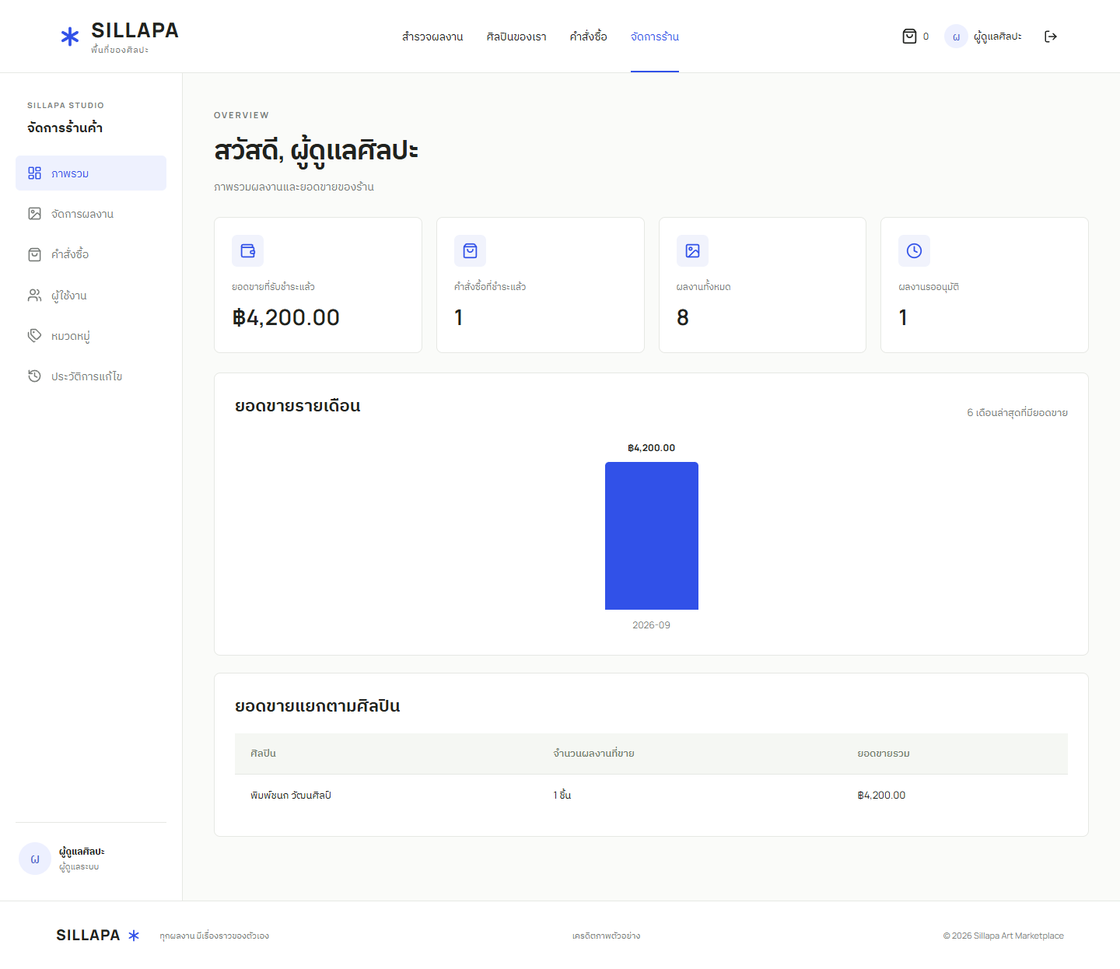
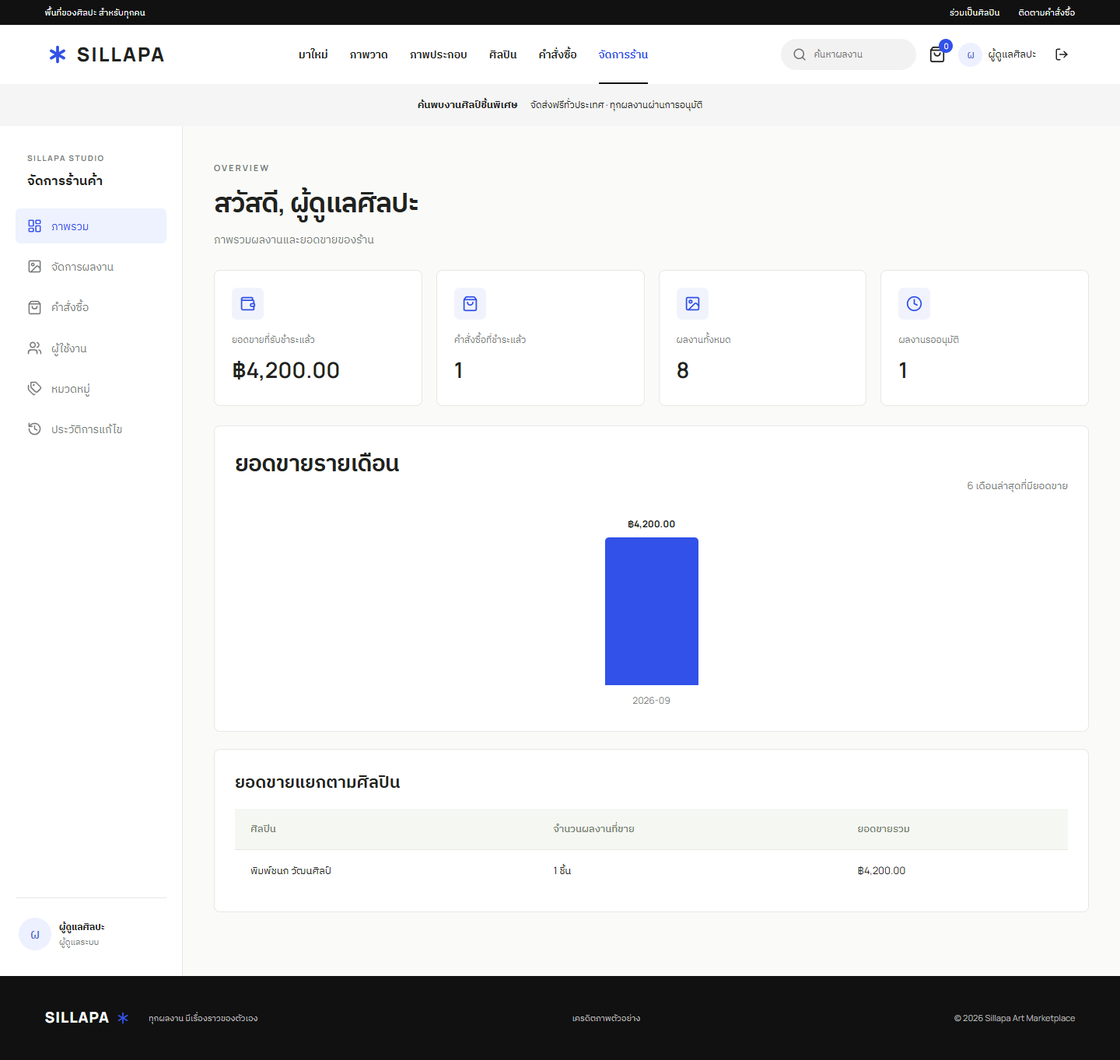
Redesign storefront with Nike-inspired layout

diff --git a/components/marketplace.tsx b/components/marketplace.tsx
@@ -2,7 +2,7 @@
 import { useEffect, useState } from 'react';
 import Link from 'next/link';
 import { usePathname, useRouter } from 'next/navigation';
-import { Asterisk, ShoppingBag, ArrowUpRight, ArrowRight, Search, SlidersHorizontal, LayoutGrid, List, UserRound, LogOut, Menu, X, Palette, Check, ShieldCheck } from 'lucide-react';
+import { Asterisk, ShoppingBag, ArrowUpRight, ArrowRight, Search, SlidersHorizontal, LayoutGrid, List, LogOut, Menu, X, Palette, Check, ShieldCheck } from 'lucide-react';
 import { AppContext, useApp, api, send, useData, money, Badge, Loading, ErrorBox, Empty, Pagination, type Item } from './shared';
 import { AuthPage, ProfilePage } from './people';
 import { CartPage, OrdersPage, OrderDetail } from './orders';
@@ -19,7 +19,7 @@ export default function Marketplace(){
  const user=session?.user;const addToCart=(id:string)=>{setCart(c=>c.includes(id)?c:[...c,id]);setToast('เพิ่มผลงานในตะกร้าแล้ว');};
  const value={user,session,cart,setCart,addToCart,notify:setToast,refreshSession};
  const workspace=path.startsWith('/studio');
- return <AppContext.Provider value={value}><a className="skip" href="#main">ข้ามไปเนื้อหา</a><header className="header"><Link href="/" className="brand" aria-label="SILLAPA หน้าหลัก"><Asterisk size={36} strokeWidth={2.5}/><span>SILLAPA<span className="brand-thai">พื้นที่ของศิลปะ</span></span></Link><nav className={menu?'main-nav open':'main-nav'} aria-label="เมนูหลัก"><Link className={path==='/'?'active':''} href="/">สำรวจผลงาน</Link><Link className={path.startsWith('/artists')?'active':''} href="/artists">ศิลปินของเรา</Link>{user&&<Link className={path.startsWith('/orders')?'active':''} href="/orders">คำสั่งซื้อ</Link>}{['admin','staff'].includes(user?.role)&&<Link className={workspace?'active':''} href="/studio">จัดการร้าน</Link>}</nav><div className="header-actions"><Link className="cart-button" href="/cart" aria-label={`ตะกร้าสินค้า ${cart.length} ชิ้น`}><ShoppingBag size={21}/><span className="cart-count">{cart.length}</span></Link>{user?<><Link className="account" href="/profile"><span className="avatar small">{user.name.slice(0,1)}</span><span>{user.name.split(' ')[0]}</span></Link><button className="icon-button logout" aria-label="ออกจากระบบ" onClick={async()=>{await send('auth/logout',{});await refreshSession();router.push('/');}}><LogOut size={18}/></button></>:<Link href="/login" className="button dark compact">เข้าสู่ระบบ <ArrowUpRight size={15}/></Link>}<button className="icon-button mobile-menu" aria-label="เปิดเมนู" onClick={()=>setMenu(!menu)}>{menu?<X/>:<Menu/>}</button></div></header>
+ return <AppContext.Provider value={value}><a className="skip" href="#main">ข้ามไปเนื้อหา</a><div className="utility-bar"><span>พื้นที่ของศิลปะ สำหรับทุกคน</span><div><Link href="/artists">ร่วมเป็นศิลปิน</Link><Link href="/orders">ติดตามคำสั่งซื้อ</Link></div></div><header className="header"><Link href="/" className="brand" aria-label="SILLAPA หน้าหลัก"><Asterisk size={32} strokeWidth={2.8}/><span>SILLAPA</span></Link><nav className={menu?'main-nav open':'main-nav'} aria-label="เมนูหลัก"><Link className={path==='/'?'active':''} href="/">มาใหม่</Link><Link href="/?category=painting">ภาพวาด</Link><Link href="/?category=illustration">ภาพประกอบ</Link><Link className={path.startsWith('/artists')?'active':''} href="/artists">ศิลปิน</Link>{user&&<Link className={path.startsWith('/orders')?'active':''} href="/orders">คำสั่งซื้อ</Link>}{['admin','staff'].includes(user?.role)&&<Link className={workspace?'active':''} href="/studio">จัดการร้าน</Link>}</nav><div className="header-actions"><Link className="header-search" href="/#discover"><Search size={18}/><span>ค้นหาผลงาน</span></Link><Link className="cart-button" href="/cart" aria-label={`ตะกร้าสินค้า ${cart.length} ชิ้น`}><ShoppingBag size={22}/><span className="cart-count">{cart.length}</span></Link>{user?<><Link className="account" href="/profile"><span className="avatar small">{user.name.slice(0,1)}</span><span>{user.name.split(' ')[0]}</span></Link><button className="icon-button logout" aria-label="ออกจากระบบ" onClick={async()=>{await send('auth/logout',{});await refreshSession();router.push('/');}}><LogOut size={18}/></button></>:<Link href="/login" className="account-link">เข้าสู่ระบบ</Link>}<button className="icon-button mobile-menu" aria-label="เปิดเมนู" onClick={()=>setMenu(!menu)}>{menu?<X/>:<Menu/>}</button></div></header><div className="promo-strip"><strong>ค้นพบงานศิลป์ชิ้นพิเศษ</strong><span>จัดส่งฟรีทั่วประเทศ · ทุกผลงานผ่านการอนุมัติ</span></div>
  <main id="main" className={workspace?'workspace-main':'site-main'}>{path==='/'?<Gallery/>:path.startsWith('/artworks/')?<ArtworkDetail id={path.split('/')[2]}/>:path==='/artists'?<Artists/>:path.startsWith('/artists/')?<ArtistDetail id={path.split('/')[2]}/>:path==='/login'||path==='/register'?<AuthPage register={path==='/register'}/>:path==='/cart'?<CartPage/>:path==='/orders'?<OrdersPage/>:path.startsWith('/orders/')?<OrderDetail id={path.split('/')[2]}/>:path==='/addresses'?<AddressPage/>:path==='/profile'?<ProfilePage/>:workspace?<Workspace/>:path==='/credits'?<Credits/>:<Empty title="ไม่พบหน้านี้"><Link className="button" href="/">กลับสู่แกลเลอรี</Link></Empty>}</main>
  <footer className="footer"><div><Link className="footer-brand" href="/">SILLAPA< Asterisk size={22}/></Link><span>ทุกผลงาน มีเรื่องราวของตัวเอง</span></div><Link href="/credits">เครดิตภาพตัวอย่าง</Link><span>© {new Date().getFullYear()} Sillapa Art Marketplace</span></footer>{toast&&<div className="toast" role="status"><Check size={19}/>{toast}</div>}</AppContext.Provider>;
 }
@@ -29,8 +29,8 @@ function Gallery({artist}:{artist?:string}){
  const [q,setQ]=useState('');const [search,setSearch]=useState('');const [category,setCategory]=useState('');const [artistFilter,setArtistFilter]=useState('');const [max,setMax]=useState('');const [status,setStatus]=useState('');const [sort,setSort]=useState('newest');const [page,setPage]=useState(1);const [list,setList]=useState(false);const [filters,setFilters]=useState(false);
  useEffect(()=>{const t=setTimeout(()=>{setSearch(q);setPage(1);},300);return()=>clearTimeout(t);},[q]);
  const categories=useData('categories');const artists=useData('artists');const params=new URLSearchParams({q:search,category,artist:artist||artistFilter,max,status,sort,page:String(page)});const {data,error}=useData(`artworks?${params}`);const reset=()=>{setQ('');setCategory('');setArtistFilter('');setMax('');setStatus('');setSort('newest');setPage(1);};
- return <>{!artist&&<section className="gallery-intro"><div><div className="eyebrow"><span className="tiny-line"/> A SPACE FOR ART & YOU</div><h1>Art, with a <em>story.</em></h1><p>ค้นพบผลงานที่ใช่ สนับสนุนศิลปินรุ่นใหม่<br className="mobile-break"/> และเติมเรื่องราวให้พื้นที่ของคุณ</p></div><div className="intro-note"><div className="outline-star"><Asterisk size={52} strokeWidth={1}/></div><p>จากความตั้งใจของศิลปิน<br/>สู่มุมโปรดของคุณ</p><Link href="/artists">พบกับศิลปิน <ArrowUpRight size={17}/></Link></div></section>}
- <section className="gallery-section"><div className="section-heading"><h2>{artist?'ผลงานของศิลปิน':'สำรวจผลงาน'}<span className="count">{data?.total??'—'}</span></h2><div className="view-buttons"><button className={!list?'selected':''} aria-label="มุมมองตาราง" onClick={()=>setList(false)}><LayoutGrid size={19}/></button><button className={list?'selected':''} aria-label="มุมมองรายการ" onClick={()=>setList(true)}><List size={20}/></button></div></div><div className="gallery-tools"><div className="category-tabs"><button onClick={()=>{setCategory('');setPage(1);}} className={!category?'selected':''}>ทั้งหมด</button>{categories.data?.items.map((c:Item)=><button key={c.id} onClick={()=>{setCategory(c.id);setPage(1);}} className={category===c.id?'selected':''}>{c.name}</button>)}</div><label className="sort-label">เรียงตาม <select aria-label="เรียงผลงาน" value={sort} onChange={e=>{setSort(e.target.value);setPage(1);}}><option value="newest">ใหม่ล่าสุด</option><option value="price_asc">ราคา: ต่ำไปสูง</option><option value="price_desc">ราคา: สูงไปต่ำ</option><option value="oldest">เก่าที่สุด</option></select></label></div>
+ return <>{!artist&&<><section className="gallery-intro"><img src="/art/art-1.jpg" alt="ภาพวาดดอกบัว ผลงานเด่นประจำสัปดาห์"/><div className="hero-copy"><span className="hero-kicker">FEATURED THIS WEEK</span><h1>ศิลปะที่<br/>พูดแทนคุณ</h1><p>ค้นพบงานต้นฉบับจากศิลปินรุ่นใหม่<br/>ชิ้นเดียวในโลก เพื่อพื้นที่ที่เป็นคุณ</p><a className="hero-cta" href="#discover">เลือกชมผลงาน <ArrowRight size={18}/></a></div></section><div className="shop-categories" aria-label="เลือกดูตามหมวด"><a href="#discover">มาใหม่</a><a href="#discover">ภาพวาด</a><a href="#discover">ภาพประกอบ</a><a href="/artists">ศิลปินน่าจับตา</a></div></>}
+ <section className="gallery-section" id="discover"><div className="section-heading"><div><span className="section-kicker">CURATED FOR YOU</span><h2>{artist?'ผลงานของศิลปิน':'ผลงานเด่น'}<span className="count">{data?.total??'—'}</span></h2></div><div className="view-buttons"><button className={!list?'selected':''} aria-label="มุมมองตาราง" onClick={()=>setList(false)}><LayoutGrid size={19}/></button><button className={list?'selected':''} aria-label="มุมมองรายการ" onClick={()=>setList(true)}><List size={20}/></button></div></div><div className="gallery-tools"><div className="category-tabs"><button onClick={()=>{setCategory('');setPage(1);}} className={!category?'selected':''}>ทั้งหมด</button>{categories.data?.items.map((c:Item)=><button key={c.id} onClick={()=>{setCategory(c.id);setPage(1);}} className={category===c.id?'selected':''}>{c.name}</button>)}</div><div className="tool-actions"><button className="filter-inline" onClick={()=>setFilters(!filters)}><SlidersHorizontal size={16}/> ตัวกรอง</button><label className="sort-label"><select aria-label="เรียงผลงาน" value={sort} onChange={e=>{setSort(e.target.value);setPage(1);}}><option value="newest">ใหม่ล่าสุด</option><option value="price_asc">ราคา: ต่ำไปสูง</option><option value="price_desc">ราคา: สูงไปต่ำ</option><option value="oldest">เก่าที่สุด</option></select></label></div></div>
  <button className="button filter-toggle" onClick={()=>setFilters(!filters)}><SlidersHorizontal size={17}/>ตัวกรอง</button><div className="gallery-layout"><aside className={`filters ${filters?'show':''}`}><div className="filter-heading"><strong><SlidersHorizontal size={17}/>ตัวกรอง</strong><button className="text-button" onClick={reset}>ล้างทั้งหมด</button></div><label className="field-label">ค้นหาผลงาน<div className="search-input"><Search size={17}/><input placeholder="ชื่อผลงานหรือศิลปิน" value={q} onChange={e=>setQ(e.target.value)}/></div></label>{!artist&&<label className="field-label">ศิลปิน<select value={artistFilter} onChange={e=>{setArtistFilter(e.target.value);setPage(1);}}><option value="">ศิลปินทั้งหมด</option>{artists.data?.items.map((a:Item)=><option key={a.id} value={a.id}>{a.name}</option>)}</select></label>}<label className="field-label">ช่วงราคา<select value={max} onChange={e=>{setMax(e.target.value);setPage(1);}}><option value="">ทุกช่วงราคา</option><option value="3000">ไม่เกิน ฿3,000</option><option value="5000">ไม่เกิน ฿5,000</option><option value="10000">ไม่เกิน ฿10,000</option></select></label><div className="filter-divider"/><label className="check-label"><input type="checkbox" checked={status==='approved'} onChange={e=>{setStatus(e.target.checked?'approved':'');setPage(1);}}/>เฉพาะที่พร้อมจำหน่าย</label><div className="artist-invite"><Palette size={25}/><h3>ให้ผลงานของคุณ<br/>ได้พบเจ้าของคนใหม่</h3><p>ร่วมเป็นส่วนหนึ่งของ<br/>ชุมชนศิลปิน SILLAPA</p><Link href="/register">เริ่มต้นเป็นศิลปิน <ArrowUpRight size={16}/></Link></div></aside><div className="gallery-results"><ErrorBox text={error}/>{!data&&!error?<Loading/>:data?.items.length===0?<Empty title="ไม่พบผลงานที่ค้นหา"><p>ลองเปลี่ยนคำค้นหาหรือล้างตัวกรอง</p><button className="button" onClick={reset}>ล้างตัวกรอง</button></Empty>:<div className={`art-grid ${list?'list-grid':''}`}>{data?.items.map((art:Item)=><ArtCard key={art.id} art={art} list={list}/>)}</div>}<Pagination data={data} page={page} onChange={setPage}/><p className="sample-note">ภาพตัวอย่างเป็นศิลปะสาธารณสมบัติ ชื่อศิลปินนักศึกษาและราคาเป็นข้อมูลสาธิต <Link href="/credits">ดูเครดิตภาพ</Link></p></div></div></section></>;
 }
 function ArtworkDetail({id}:{id:string}){const {data,error}=useData(`artworks/${id}`);const {addToCart,cart,user}=useApp();if(error)return <ErrorBox text={error}/>;if(!data)return <Loading/>;const a=data.artwork;return <><div className="breadcrumb"><Link href="/">สำรวจผลงาน</Link><span>/</span><span>{a.title}</span></div><section className="detail-layout"><div className="detail-image"><img src={a.image} alt={a.title}/></div><div className="detail-info"><div className="eyebrow">{a.category_name}</div><h1>{a.title}</h1><Link className="artist-link" href={`/artists/${a.artist_id}`}><span className="avatar">{a.artist_name.slice(0,1)}</span><div><strong>{a.artist_name}</strong><small>{a.university||'ศิลปิน SILLAPA'}</small></div><ArrowUpRight size={19}/></Link><p className="detail-price">{money(a.price)}</p><Badge status={a.status}/><p className="description">{a.description}</p><dl className="specs"><div><dt>เทคนิค</dt><dd>{a.technique}</dd></div><div><dt>ขนาด</dt><dd>{Number(a.width)} × {Number(a.height)} ซม.</dd></div><div><dt>รูปแบบ</dt><dd>ผลงานต้นฉบับ · 1 ชิ้น</dd></div></dl><button className="button primary full" disabled={a.status!=='approved'||a.artist_id===user?.id||cart.includes(id)} onClick={()=>addToCart(id)}><ShoppingBag size={19}/>{cart.includes(id)?'อยู่ในตะกร้าแล้ว':a.status==='approved'?'เพิ่มลงตะกร้า':a.status==='reserved'?'ผลงานนี้ถูกจองแล้ว':'ยังไม่พร้อมจำหน่าย'}</button>{cart.includes(id)&&<Link className="button full" href="/cart">ไปที่ตะกร้า <ArrowRight size={17}/></Link>}<p className="trust-note"><ShieldCheck size={17}/>ผ่านการอนุมัติก่อนเผยแพร่ · ตรวจสอบการชำระเงินโดยแอดมิน</p>{a.credit&&<p className="sample-note">{a.credit} <Link href="/credits">เครดิตภาพ</Link></p>}</div></section></>;}

diff --git a/app/globals.css b/app/globals.css
@@ -5,3 +5,9 @@
 @media(max-width:800px){.header{height:78px;gap:15px}.brand>span{font-size:22px}.brand>svg{width:29px}.main-nav{gap:16px;font-size:12px}.header-actions{gap:10px}.header-actions>.button{font-size:12px;padding:9px 12px}.logout{display:none}.gallery-intro{padding:35px 0}.gallery-intro h1{font-size:57px}.intro-note{display:none}.gallery-layout{grid-template-columns:170px 1fr;gap:20px}.art-bottom{align-items:flex-start;flex-direction:column;gap:3px}.art-info h3{font-size:16px}.art-meta{font-size:10px}.category-tabs button{padding:7px 14px;font-size:12px}.gallery-tools{gap:10px}.sort-label{font-size:12px;gap:3px}.sort-label select{max-width:125px;font-size:12px}.footer{flex-wrap:wrap}.footer>div{width:100%;justify-content:space-between}.detail-layout,.checkout-layout{grid-template-columns:1fr;gap:25px}.detail-image{min-height:0;max-height:650px}.detail-image img{max-height:550px}.detail-info{padding:10px 0}.detail-info h1{font-size:32px}.auth-layout{grid-template-columns:1fr;max-width:480px;margin-top:30px}.auth-art{display:none}.workspace{grid-template-columns:170px 1fr}.studio-sidebar{padding:25px 10px}.studio-sidebar nav a{padding:10px;font-size:12px;gap:8px}.studio-label{padding:0 10px 20px}.studio-content{padding:25px 18px}.studio-content h1{font-size:27px}.stat-grid{gap:10px}.stat-card{padding:16px}.stat-card>strong{font-size:25px}.section-heading.page-heading{align-items:flex-start;flex-direction:column}.order-card{flex-direction:column;gap:15px}.order-card-end{justify-content:space-between}.table-wrap th,.table-wrap td{padding:14px}.chart-panel .section-heading{align-items:flex-start;flex-direction:column}}
 @media(max-width:600px){body{font-size:16px}.header{height:74px;padding:0 5%;gap:10px}.brand-thai{font-size:9px}.brand>span{font-size:20px}.header-actions{gap:12px}.header-actions>.button{padding:8px 11px}.header-actions>.button svg{display:none}.mobile-menu{display:flex;padding:4px}.main-nav{display:none;position:absolute;top:74px;left:0;right:0;flex-direction:column;align-items:stretch;height:auto;background:white;border-bottom:1px solid var(--line);padding:15px 5%;z-index:30;gap:0}.main-nav.open{display:flex}.main-nav a{padding:12px;font-size:14px}.main-nav a.active:after{display:none}.site-main{padding:0 5% 45px}.gallery-intro{padding:28px 0 27px;margin-bottom:24px}.gallery-intro .eyebrow{font-size:9px;letter-spacing:1.8px}.gallery-intro h1{font-size:46px;letter-spacing:-2px;margin:16px 0}.gallery-intro p{font-size:13px;line-height:1.9}.mobile-break{display:block}.section-heading h2{font-size:21px}.gallery-tools{align-items:flex-start;flex-wrap:wrap;margin:18px 0}.category-tabs{width:100%;padding-bottom:4px;gap:6px}.category-tabs button{font-size:13px;padding:7px 15px}.sort-label{margin-left:auto;font-size:12px}.filter-toggle{display:flex;font-size:12px;padding:7px 12px;min-height:34px;margin-top:-55px;margin-bottom:20px}.gallery-layout{display:block}.filters{display:none;border:1px solid var(--line);padding:20px;border-radius:7px;margin-bottom:22px}.filters.show{display:block}.artist-invite{display:none}.art-grid{grid-template-columns:repeat(2,minmax(0,1fr));gap:24px 14px}.art-image{aspect-ratio:.9}.art-info{padding-top:10px}.art-info h3{font-size:14px;margin:5px 0}.art-meta{font-size:10px;display:block}.art-meta span+span{display:none}.artist-name{font-size:11px;max-width:100%}.art-bottom strong{font-size:14px}.art-image .badge{top:7px;left:7px;font-size:10px}.list-grid{grid-template-columns:1fr}.list-card .art-image{width:120px;aspect-ratio:1}.list-card{gap:15px}.sample-note{font-size:11px}.footer{padding:24px 5%;gap:13px;font-size:10px}.footer>div{align-items:flex-start}.footer>div>span{font-size:10px;margin-top:5px}.footer-brand{font-size:17px}.page-heading{padding:30px 0 22px}.page-heading h1{font-size:28px}.page-heading p{font-size:13px}.detail-layout{padding-top:0;gap:15px}.detail-image{padding:20px}.detail-info h1{font-size:29px}.detail-price{font-size:28px}.artist-grid{grid-template-columns:1fr}.artist-profile{align-items:flex-start;gap:15px;padding:30px 0}.avatar.large{width:62px;height:62px;font-size:28px}.artist-profile h1{font-size:24px}.artist-profile p{font-size:13px}.panel{padding:20px}.form-grid{gap:0 12px}.auth-form{padding:0}.auth-form h1{font-size:28px}.cart-item{gap:12px}.cart-item img{width:75px;height:75px}.cart-item h3{font-size:14px}.order-timeline{padding:12px 0 28px}.order-timeline>div{flex-direction:column;font-size:10px;gap:8px;text-align:center}.order-timeline>div:last-child{flex:1}.order-timeline>div:after{display:none}.order-timeline>div>span{padding:9px}.order-timeline>div>strong{font-weight:500}.order-card{padding:19px}.order-card-end{gap:10px}.workspace{display:block}.studio-sidebar{min-height:0;padding:14px 5%;border:0;border-bottom:1px solid var(--line)}.studio-label,.studio-user{display:none}.studio-sidebar nav{flex-direction:row;overflow:auto;gap:5px}.studio-sidebar nav a{flex-shrink:0;padding:9px 12px;gap:6px}.studio-sidebar nav svg{width:15px}.studio-content{padding:20px 5% 40px}.studio-content .page-heading{padding:5px 0 22px}.studio-content h1{font-size:25px}.stat-card{padding:16px}.stat-card p{font-size:11px}.stat-card>strong{font-size:24px}.table-toolbar{flex-wrap:wrap;gap:10px}.table-toolbar input{width:100%}.table-wrap{padding:0}.table-wrap th,.table-wrap td{font-size:12px;padding:12px}.table-art{min-width:190px}.bar-chart{padding:0;gap:12px}.bar-chart strong{font-size:10px}.credit-row{gap:16px;align-items:flex-start}.credit-row img{width:80px;height:80px}.credit-row h3{font-size:15px}.credit-row p{font-size:12px}dialog{padding:22px}.modal-head h2{font-size:21px}.toast{font-size:13px;padding:12px 18px;width:max-content}.eyebrow{font-size:10px}}
 @media(prefers-reduced-motion:reduce){*{animation-duration:.01ms!important;transition-duration:.01ms!important}}
+
+/* Nike-inspired storefront refresh */
+.utility-bar{height:32px;padding:0 4%;background:#111;color:#fff;display:flex;align-items:center;justify-content:space-between;font-size:11px;letter-spacing:.2px}.utility-bar div{display:flex;gap:24px}.utility-bar a:hover{text-decoration:underline}.header{height:76px;padding:0 4%;border-bottom:0;gap:24px}.brand>span{font-size:25px;letter-spacing:2px}.brand>svg{color:var(--blue)}.main-nav{gap:28px;font-weight:600;font-size:14px}.main-nav a.active:after{height:2px;background:#111}.header-actions{gap:16px}.header-search{width:174px;height:40px;border-radius:999px;background:#f2f2f2;display:flex;align-items:center;gap:9px;padding:0 15px;font-size:12px;color:#6e6e6e}.header-search:hover{background:#e8e8e8}.account-link{font-size:13px;font-weight:600}.cart-button{position:relative}.cart-count{min-width:18px;height:18px;border-radius:999px;background:var(--blue);color:#fff;display:flex;align-items:center;justify-content:center;font-size:10px;position:absolute;right:-9px;top:-9px}.promo-strip{height:54px;background:#f5f5f5;display:flex;align-items:center;justify-content:center;gap:16px;font-size:12px}.promo-strip strong{font-size:13px}.site-main{max-width:none;padding:0 4% 80px}.gallery-intro{position:relative;margin:0 -4.35% 30px;padding:0;border:0;height:min(57vw,650px);min-height:500px;overflow:hidden;display:block;background:#263223}.gallery-intro>img{width:100%;height:100%;object-fit:cover;object-position:center 48%;filter:brightness(.72)}.hero-copy{position:absolute;z-index:2;left:7.5%;top:50%;transform:translateY(-50%);color:#fff;max-width:610px}.hero-kicker,.section-kicker{display:block;font-size:11px;font-weight:700;letter-spacing:2px;margin-bottom:14px}.gallery-intro h1{font-family:var(--font);font-size:clamp(58px,7.3vw,108px);font-weight:800;line-height:.93;letter-spacing:-5px;margin:0 0 24px;color:#fff}.gallery-intro p{color:#fff;font-size:17px;line-height:1.7;margin-bottom:28px}.hero-cta{display:inline-flex;align-items:center;gap:10px;background:#fff;color:#111;border-radius:999px;padding:13px 22px;font-size:14px;font-weight:700}.hero-cta:hover{background:#ededed}.shop-categories{display:flex;justify-content:center;gap:10px;padding:0 0 42px;overflow:auto}.shop-categories a{flex:0 0 auto;border:1px solid #d9d9d9;border-radius:999px;padding:10px 20px;font-size:13px;font-weight:600}.shop-categories a:first-child,.shop-categories a:hover{background:#111;color:#fff;border-color:#111}.gallery-section{padding-top:4px}.section-heading{display:flex;align-items:flex-end;justify-content:space-between;margin-bottom:18px}.section-heading h2{font-size:30px;letter-spacing:-.7px}.section-kicker{color:var(--blue);margin-bottom:5px}.count{font-size:12px;color:#777;margin-left:10px;vertical-align:top}.gallery-tools{display:flex;align-items:center;justify-content:space-between;gap:20px;margin-bottom:24px}.category-tabs{display:flex;gap:8px;overflow:auto;padding:2px}.category-tabs button{border:1px solid #ddd;background:#fff;border-radius:999px;padding:9px 16px;font-size:12px;white-space:nowrap}.category-tabs button.selected{background:#111;color:#fff;border-color:#111}.tool-actions{display:flex;gap:10px;align-items:center}.filter-inline{border:0;background:#fff;display:flex;align-items:center;gap:6px;font-size:12px;font-weight:600;padding:9px 4px}.sort-label{font-size:0}.sort-label select{border:0;border-radius:0;padding:8px 26px 8px 5px;font-size:12px;font-weight:600}.gallery-layout{display:block}.filters{display:none;background:#f7f7f7;border:0;border-radius:0;padding:24px;margin:0 0 26px}.filters.show{display:grid;grid-template-columns:1.5fr 1fr 1fr auto;gap:20px;align-items:end}.filters.show .filter-heading{grid-column:1/-1}.filters.show .artist-invite,.filters.show .filter-divider{display:none}.filters.show .check-label{align-self:center;margin-bottom:10px}.filter-toggle{display:none!important}.art-grid{display:grid;grid-template-columns:repeat(4,minmax(0,1fr));gap:36px 16px}.art-card{min-width:0}.art-image{aspect-ratio:.86;background:#f1f1f1;overflow:hidden}.art-image img{width:100%;height:100%;object-fit:cover;transition:transform .35s ease}.art-card:hover .art-image img{transform:scale(1.025)}.art-open{display:none}.art-info{padding:12px 2px 0}.art-meta{font-size:10px;color:#777;text-transform:uppercase}.art-info h3{font-size:16px;margin:4px 0 2px}.art-bottom{display:flex;justify-content:space-between;gap:8px}.art-bottom strong{font-size:14px}.list-grid{grid-template-columns:1fr}.list-card .art-image{width:200px}.view-buttons{display:flex}.footer{background:#111;color:#bbb;border:0;padding:38px 4%}.footer-brand{color:#fff}
+@media(max-width:1100px){.header-search{width:42px;padding:0;justify-content:center}.header-search span{display:none}.main-nav{gap:18px}.art-grid{grid-template-columns:repeat(3,minmax(0,1fr))}.gallery-intro{height:58vw;min-height:490px}.filters.show{grid-template-columns:1fr 1fr}}
+@media(max-width:800px){.utility-bar{display:none}.header{height:70px;padding:0 5%}.promo-strip{height:48px;padding:0 5%;text-align:center}.promo-strip span{display:none}.header-search,.account-link,.account{display:none}.main-nav{top:70px}.site-main{padding-left:5%;padding-right:5%}.gallery-intro{margin:0 -5.56% 24px;height:70vh;min-height:520px}.gallery-intro>img{object-position:58% center}.hero-copy{left:7%;right:7%;top:auto;bottom:8%;transform:none}.gallery-intro h1{font-size:clamp(50px,14vw,78px);letter-spacing:-3px}.art-grid{grid-template-columns:repeat(2,minmax(0,1fr));gap:28px 12px}.filters.show{grid-template-columns:1fr}.gallery-tools{align-items:flex-start;flex-direction:column}.tool-actions{width:100%;justify-content:space-between}.shop-categories{justify-content:flex-start;padding-bottom:30px}.section-heading h2{font-size:26px}}
+@media(max-width:600px){.header .brand>span{font-size:21px}.header .brand>svg{width:27px}.promo-strip{font-size:11px}.gallery-intro{height:66vh;min-height:500px}.gallery-intro h1{font-size:52px;line-height:.98}.gallery-intro p{font-size:14px}.hero-cta{padding:11px 18px}.section-heading{margin-bottom:14px}.section-heading h2{font-size:24px}.view-buttons{display:none}.category-tabs{width:100%}.art-image{aspect-ratio:.8}.art-info h3{font-size:14px}.art-meta span:nth-child(2){display:none}.art-bottom{display:block}.artist-name{display:block}.footer{padding:30px 5%}}

diff --git a/scripts/browser-check.ts b/scripts/browser-check.ts
@@ -13,9 +13,9 @@ async function main(){
  try{
  const customer=await browser.newContext({viewport:{width:1440,height:1000}});const page=await customer.newPage();page.on('pageerror',e=>errors.push(e.message));
  await page.goto(origin);await expect(page.locator('.art-card')).toHaveCount(7);await page.screenshot({path:'docs/screenshots/gallery-desktop.png',fullPage:true});
- await page.getByPlaceholder('ชื่อผลงานหรือศิลปิน').fill('ดอกไม้');await expect(page.locator('.art-card')).toHaveCount(1);
+ await page.getByRole('button',{name:'ตัวกรอง',exact:true}).click();await page.getByPlaceholder('ชื่อผลงานหรือศิลปิน').fill('ดอกไม้');await expect(page.locator('.art-card')).toHaveCount(1);
  await page.getByRole('button',{name:'ล้างทั้งหมด',exact:true}).click();await expect(page.locator('.art-card')).toHaveCount(7);
- await page.getByLabel('เรียงผลงาน').selectOption('price_asc');await expect(page.locator('.art-bottom strong').first()).toContainText('2,400');results.push('Gallery search, reset and sorting operate in the browser');
+ await page.getByLabel('เรียงผลงาน').selectOption('price_asc');await expect(page.locator('.art-bottom strong').first()).toContainText('2,400');await page.getByRole('button',{name:'ตัวกรอง',exact:true}).click();results.push('Gallery search, reset and sorting operate in the browser');
  await page.setViewportSize({width:390,height:844});await page.screenshot({path:'docs/screenshots/gallery-mobile.png',fullPage:true});
  expect(await page.evaluate(()=>document.documentElement.scrollWidth<=innerWidth)).toBeTruthy();
  await page.getByRole('button',{name:'ตัวกรอง',exact:true}).click();await expect(page.getByPlaceholder('ชื่อผลงานหรือศิลปิน')).toBeVisible();

diff --git a/design-qa.md b/design-qa.md
@@ -1,0 +1,29 @@
+# Design QA — Nike-inspired storefront
+
+## Final status: passed
+
+- Source of truth: `docs/design-target-nike-inspired.png` (1487 × 1058)
+- Implementation capture: `docs/screenshots/gallery-desktop.png` (1440 × 2265 full page; 1440 × 1000 viewport)
+- Mobile capture: `docs/screenshots/gallery-mobile.png` (390 × 2576 full page; 390 × 844 viewport)
+- Tested state: signed out, default artwork order, filters collapsed
+
+## Comparison evidence
+
+The source and implementation were inspected together at desktop size. Both use the same hierarchy: slim black utility bar, white commerce navigation, wide water-lily hero with oversized white Thai headline and pill CTA, centered category chips, and a four-column artwork rail. The implementation keeps SILLAPA's cobalt accent and real marketplace controls while matching the source's spacing, image emphasis, typography scale, and simplified shopping flow.
+
+Focused region review was not required because the full desktop captures made the header, hero, category rail, filters, and first product row legible in one comparison. The complete implementation capture was also inspected for card consistency and footer alignment.
+
+## Comparison history
+
+1. Initial implementation: passed visual hierarchy review; the live 750px view confirmed the mobile/tablet hero and horizontal category controls.
+2. Desktop review at 1440 × 1024: passed header, hero crop, CTA, whitespace, and responsive grid checks.
+3. Browser journey at 1440px and 390px: passed search, reset, sorting, filter expansion, checkout, addresses, payment proof, order status, admin approval, dashboard, artwork upload, and audit-log checks.
+
+## Interaction and runtime checks
+
+- Primary interactions tested: hero anchor, category controls, filter toggle, search, sorting, artwork navigation, cart, Thai address selection, payment method selection, slip upload, and role-based admin actions.
+- Horizontal overflow: none at 390px.
+- Browser console warnings/errors: none in the final live check.
+- Production build, TypeScript check, 17 integration groups, and the complete browser journey passed.
+
+No open P0, P1, or P2 visual issues remain.

diff --git a/docs/TEST-RESULTS.md b/docs/TEST-RESULTS.md
@@ -1,6 +1,6 @@
 # Integration test results
 
-Executed: 2026-09-24T06:51:31.933Z
+Executed: 2026-09-24T12:47:01.632Z
 
 Production Next.js server with isolated persistent PostgreSQL (PGlite) database. No live payment sent.
 

diff --git a/docs/BROWSER-RESULTS.md b/docs/BROWSER-RESULTS.md
@@ -1,6 +1,6 @@
 # Browser verification
 
-Executed: 2026-09-24T11:14:31.759Z
+Executed: 2026-09-24T12:48:09.945Z
 
 Microsoft Edge via Playwright, isolated production server/database; no actual payment.
 
